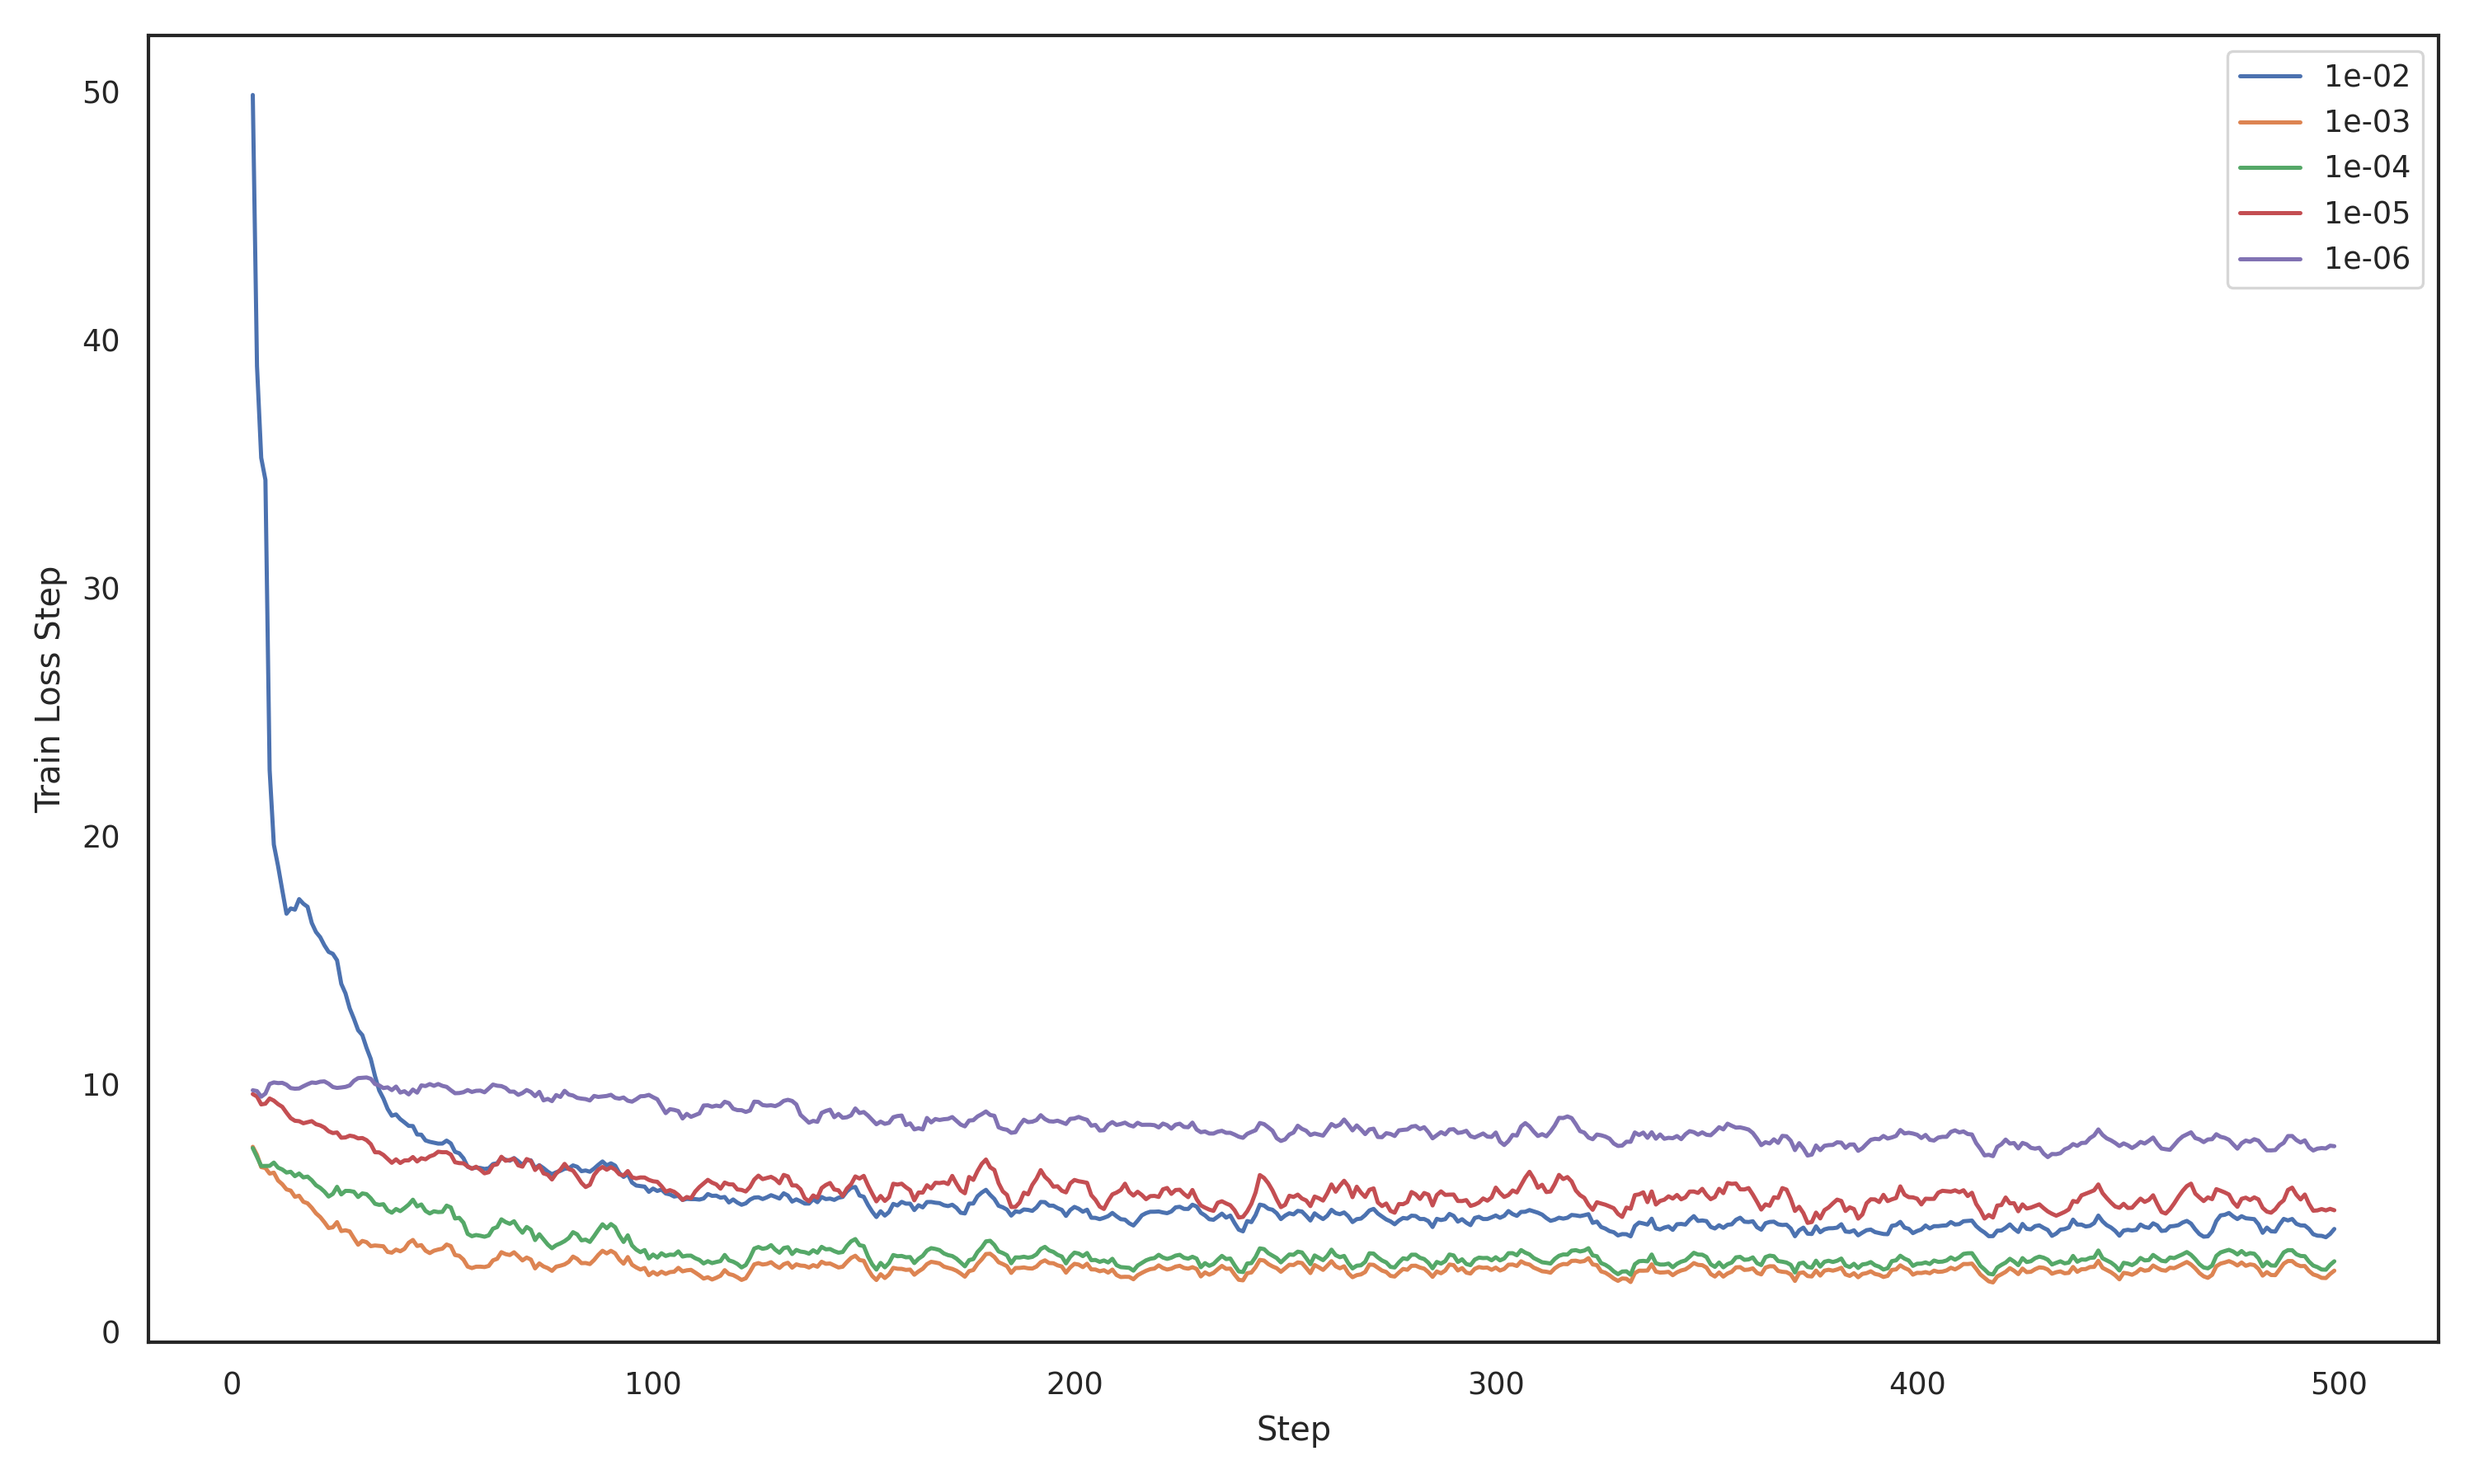
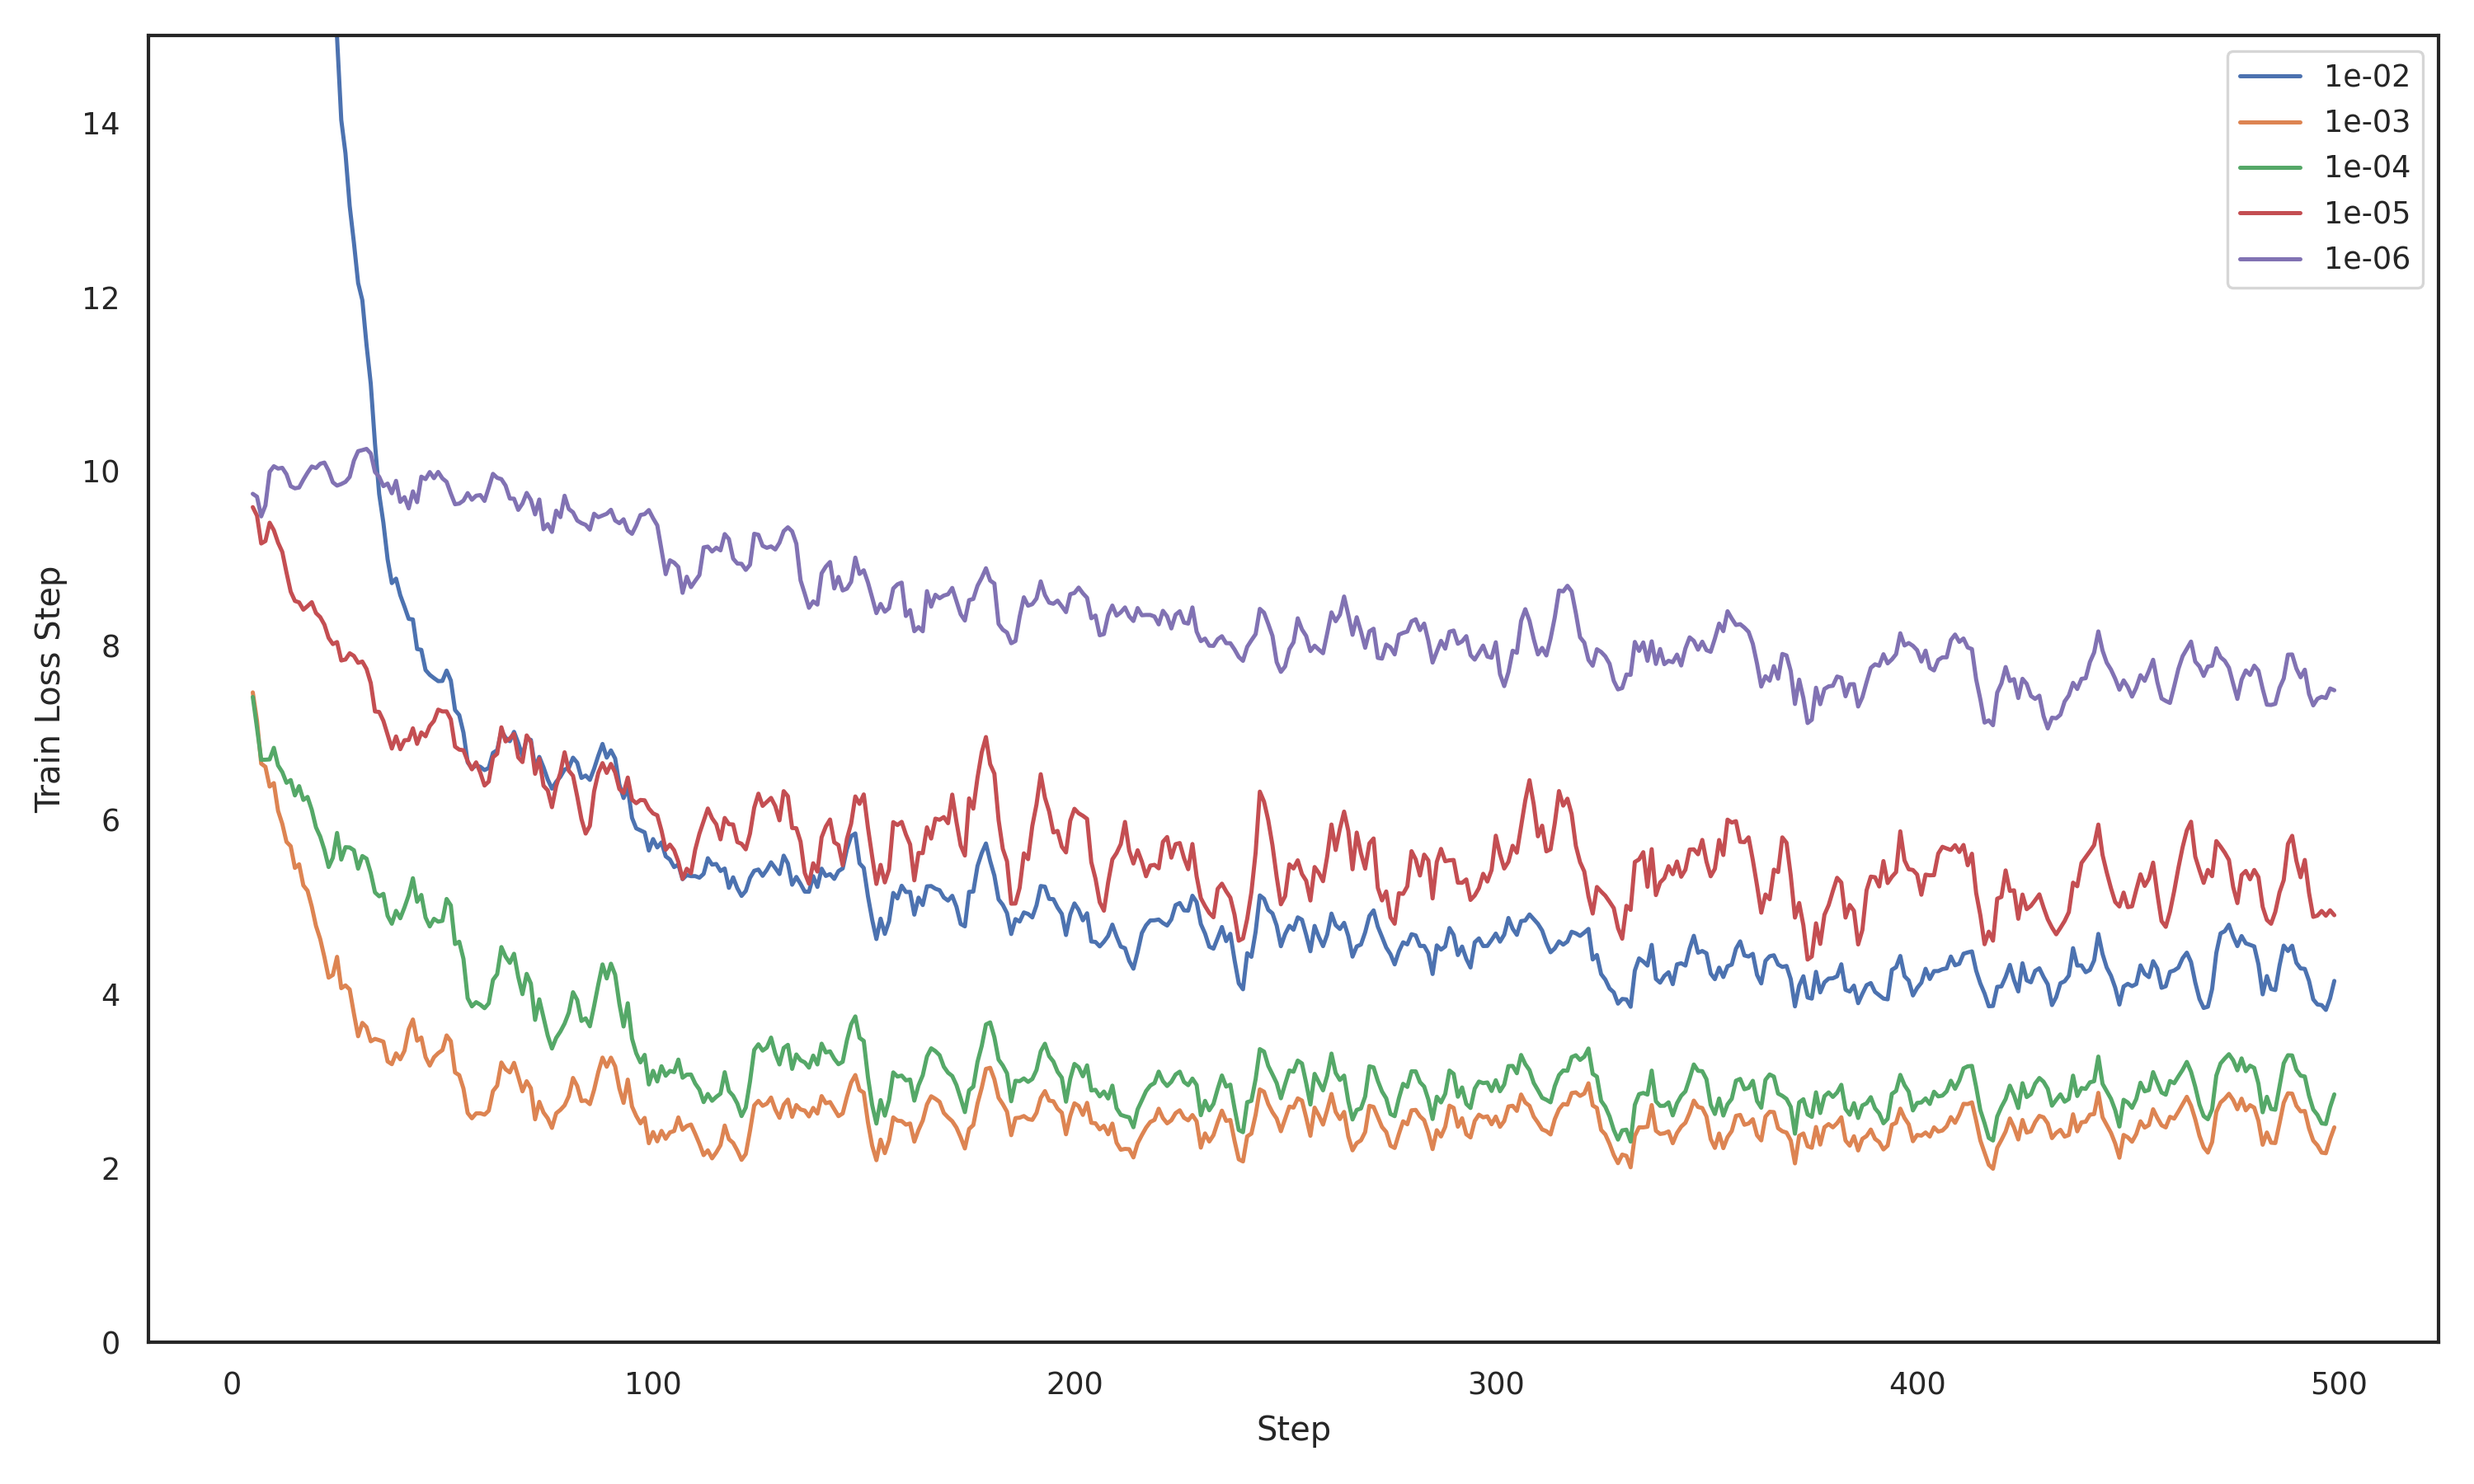
Update plots

diff --git a/src/plots.py b/src/plots.py
@@ -127,11 +127,12 @@ def render_lr(layer: str):
     fig = get_plot(
         run_names, "train_loss_step", pretty_run_names=pretty_names, rolling_mean=5
     )
+    fig.gca().set_ylim(0.0, 15.0)
     fig.savefig(f"{SAVE_DIR}/{layer}_lr.png", dpi=300)
 
     return fig
 
 
 if __name__ == "__main__":
-    fig = render_lr("BitNet")
+    fig = render_lr("OneBit")
     fig.show()
